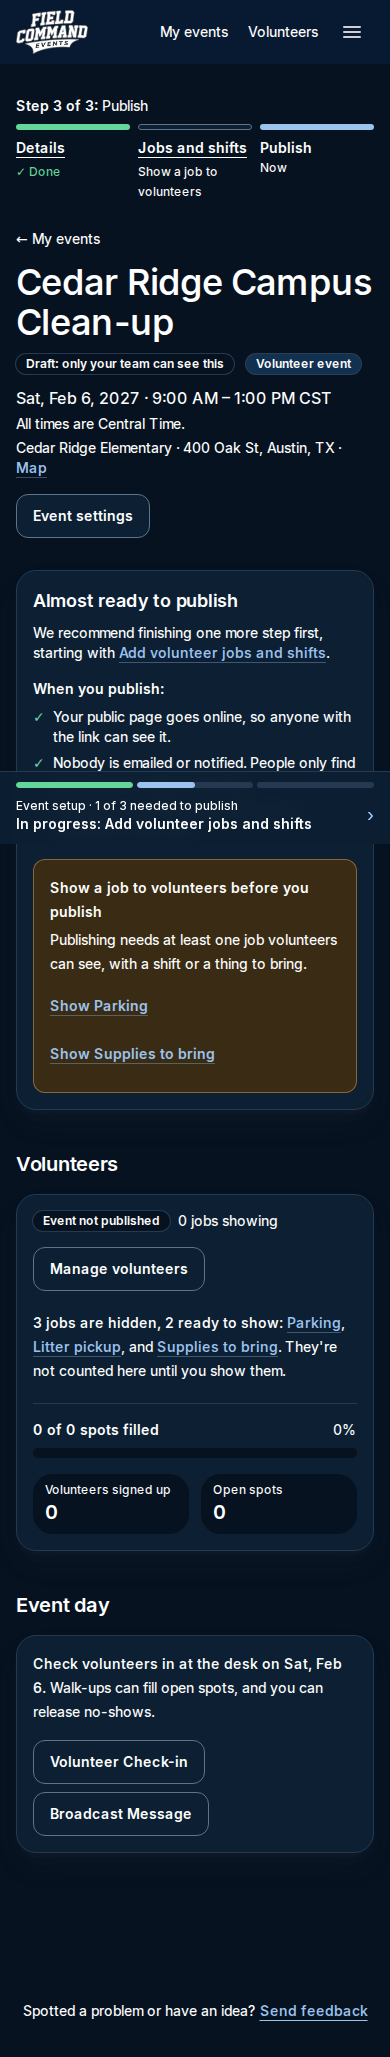
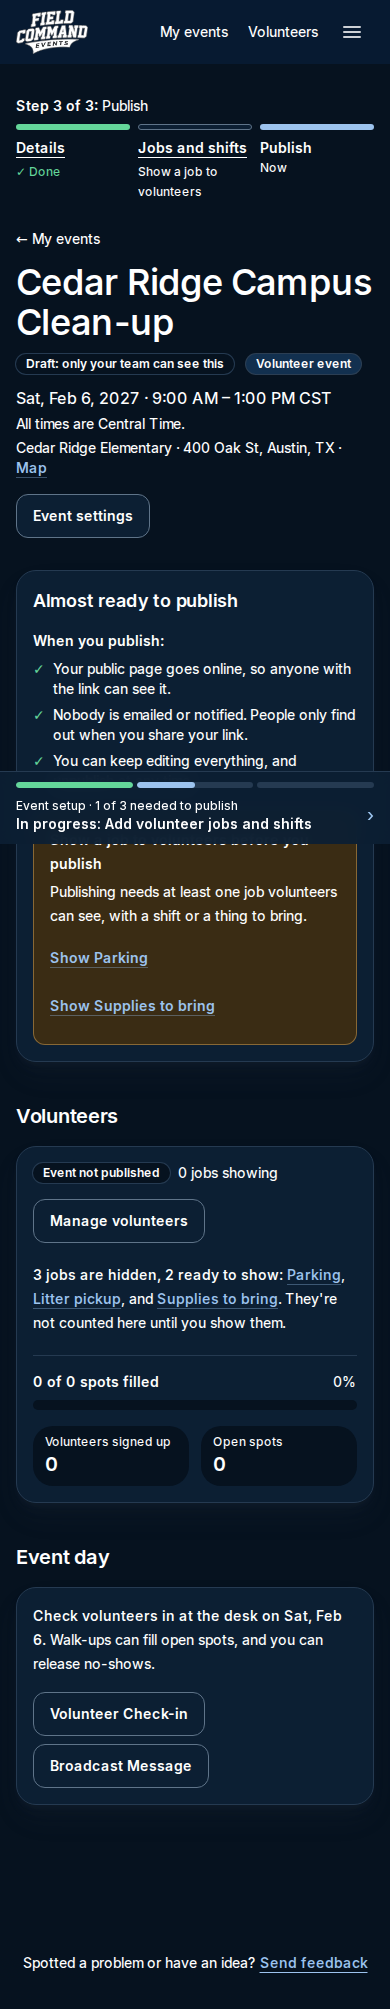
Publish card: no 'recommend' line while a job must be shown first; Things to bring heading on jobs
Claude-Session: https://claude.ai/code/session_012QSAnYf9D3RQG6GMrYDPnP

diff --git a/src/app/dashboard/events/[eventId]/page.tsx b/src/app/dashboard/events/[eventId]/page.tsx
@@ -1013,7 +1013,7 @@ function PublishPanel({
   return (
     <Card id="publish" className="mt-8 scroll-mt-6">
       <h2 className="text-lg font-semibold">{remaining.length ? "Almost ready to publish" : "Ready to publish"}</h2>
-      {remaining.length ? (
+      {needsJob ? null : remaining.length ? (
         // The checklist beside the page lists every step; here, just the first one left.
         <p className="mt-2 text-sm">
           <span className="text-muted">We recommend finishing {remaining.length === 1 ? "one more step" : `${remaining.length} more steps`} first, starting with </span>

diff --git a/src/app/dashboard/events/[eventId]/station-panel.tsx b/src/app/dashboard/events/[eventId]/station-panel.tsx
@@ -214,7 +214,7 @@ export function StationPanel({
             <section id="items" aria-labelledby="items-heading" className="scroll-mt-6 border-t border-border pt-6">
               <div className="flex flex-wrap items-baseline justify-between gap-2">
                 <h4 id="items-heading" className="text-base font-semibold">
-                  Items to bring
+                  {job ? "Things to bring" : "Items to bring"}
                 </h4>
                 <p className="text-sm text-muted">Sign-ups stop when an item is covered</p>
               </div>
